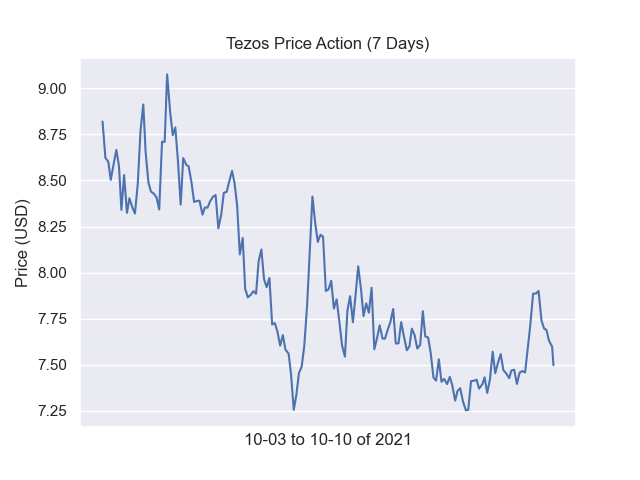
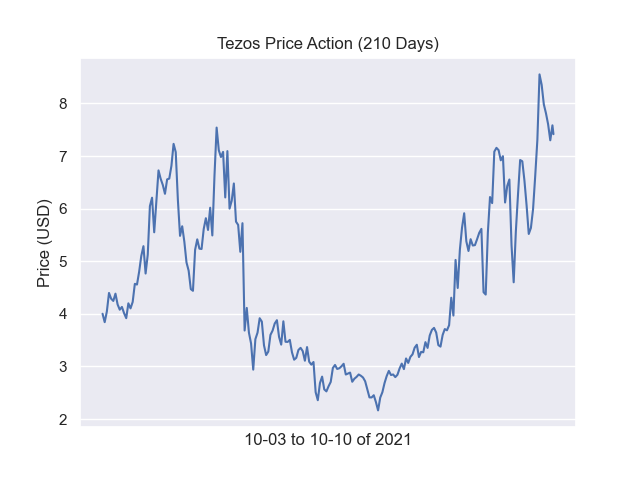
bug fix

diff --git a/tezosBot.py b/tezosBot.py
@@ -101,13 +101,13 @@ def generate_price_chart(days=7):
 
 	dateData = []
 	today = datetime.date.today()
-	for i in range(7): dateData.append(today - datetime.timedelta(days=i))
+	for i in range(days): dateData.append(today - datetime.timedelta(days=i))
 
 	plt.clf()
 	plt.title(f"Tezos Price Action ({days} Days)")
 	plt.plot(timestampData, priceData)
 	plt.ylabel("Price (USD)", loc = 'center')
-	plt.xlabel(str(today - datetime.timedelta(days=7))[5:10] + ' to ' + str(today)[5:10] + ' of ' + str(today)[:4], loc = 'center')
+	plt.xlabel(str(today - datetime.timedelta(days=days))[5:10] + ' to ' + str(today)[5:10] + ' of ' + str(today)[:4], loc = 'center')
 	plt.xticks([])
 	plt.savefig('TezosPlot.png')
 	return discord.File("TezosPlot.png", filename="TezosPlot.png")
